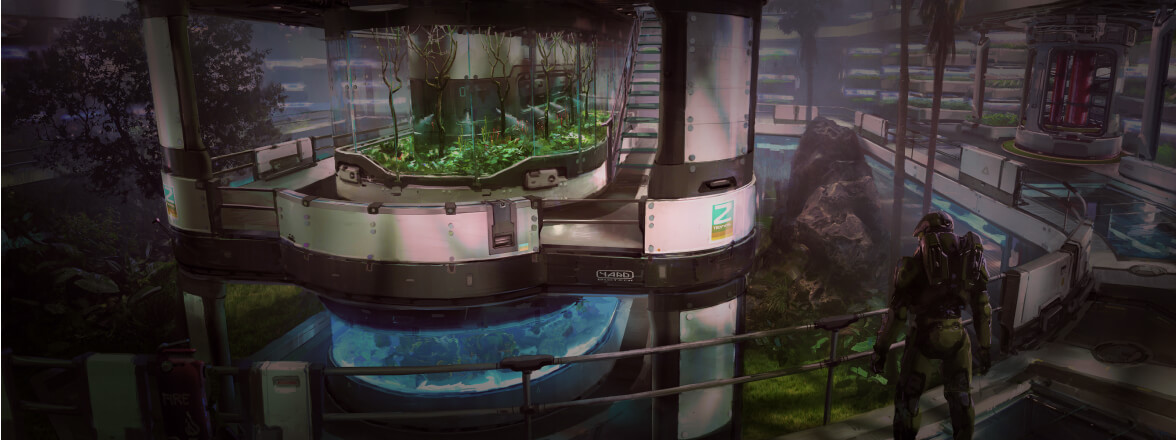
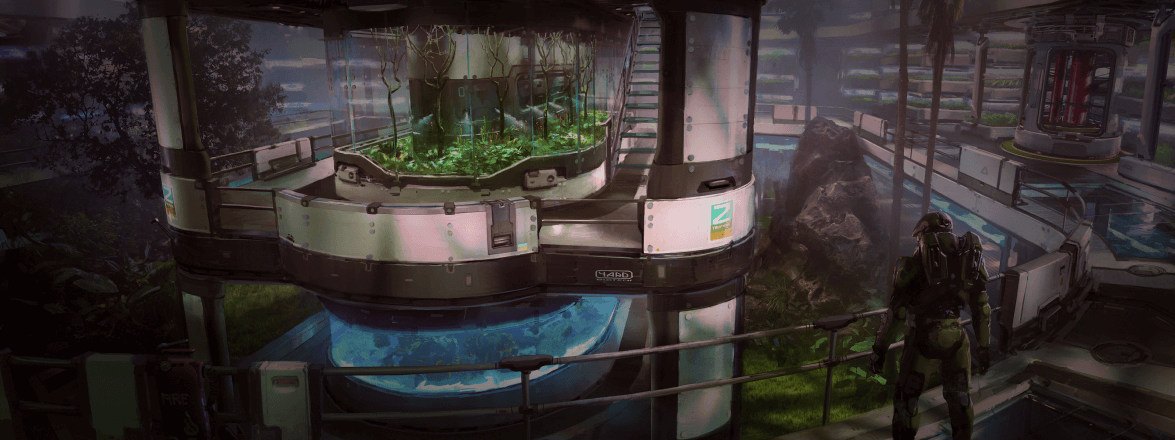
update locations images

diff --git a/src/scss/blocks/_index-box.scss b/src/scss/blocks/_index-box.scss
@@ -384,7 +384,7 @@ $forum-content-size: 435px;
       background-image: url("../../assets/categories/megasquare.jpg");
     }
     .forum[data-location="Centre commercial"] & {
-      background-image: url("../../assets/categories/centre-co.jpg");
+      background-image: url("../../assets/categories/centre-co.png");
     }
     .forum[data-location="Hyperion"] & {
       background-image: url("../../assets/categories/megasquare.jpg");
